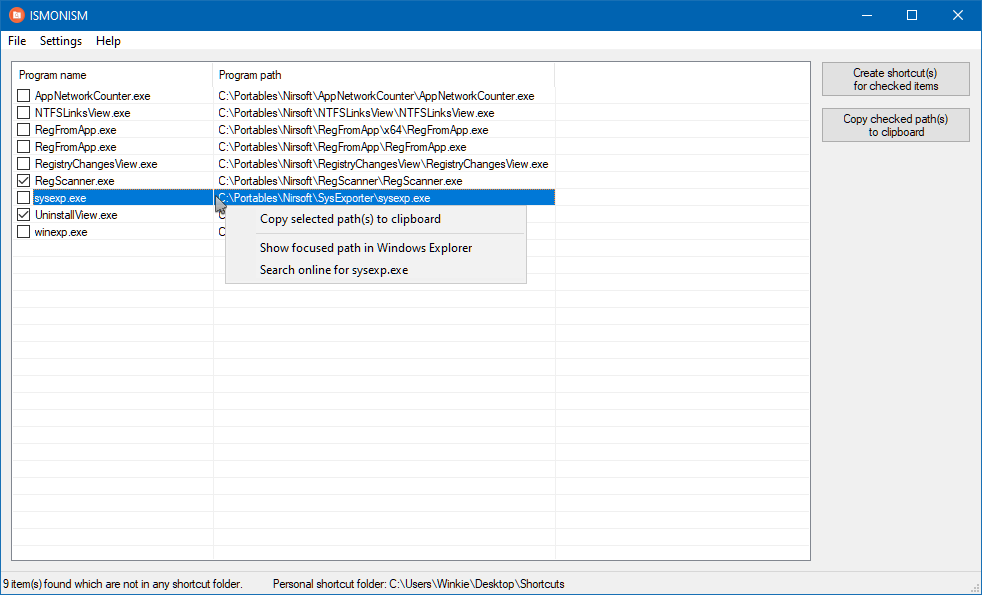
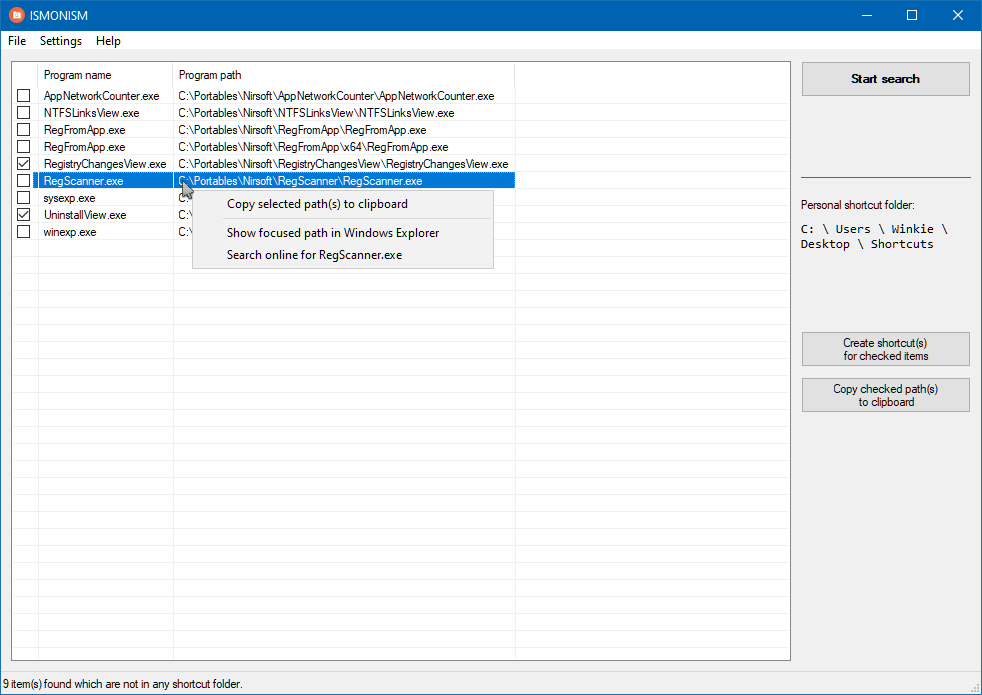
Add/change for v.0.4.0
[Change] Not start search automatically.
[Add] Button to start search,
[Add] Option to start search automatically
[Add] Option to start maximized.
[Add] Keyboard shortcuts.
[Change] Re-order GUIs and menu for the above.
[Bug fix] Partial file extension matches.
[Bug fix] Edit folders in settings GUI.
[Bug fix] Not always checking own folder for settings.

diff --git a/README.md b/README.md
@@ -20,6 +20,7 @@ The script is created with [AutoHotkey](https://www.autohotkey.com/download/) 1.
 In order to launch  `ISMONISM.ahk` from the root of this repository the following scripts are needed in a [Library](https://www.autohotkey.com/docs/Functions.htm#lib):
 - `JSON_ToObj.ahk` by Vxe from [here](https://github.com/Jim-VxE/AHK-Lib-JSON_ToObj).
 - `JSON_Beautify.ahk` by Joe DF from [here](https://github.com/joedf/JSON_BnU).
+- `AutoXYWH.ahk` by tmplinshi & toralf from [here](https://www.autohotkey.com/boards/viewtopic.php?f=6&t=1079).
 
 ## License and credits
 
@@ -34,6 +35,7 @@ This script/application uses the following components:
 - The icon/logo is copyrighted: (C) Iconic Hub, licensed free for commercial use. See the
 [Iconfinder.com file page](https://www.iconfinder.com/icons/1886938/files_folder_search_storage_icon).
 - `HasVal()` by [jNizM](https://github.com/jNizM) & [Lexicos](https://github.com/Lexikos), unlicensed open source code from [here](https://github.com/jNizM/AHK_Scripts/blob/master/src/arrays/HasVal.ahk). For more information see the corresponding [AutoHotkey.com Forum post](https://www.autohotkey.com/boards/viewtopic.php?p=110388#p110388).
+- `AutoXYWH()` by [tmplinshi](https://github.com/tmplinshi) & [toralf](https://github.com/Toralf-AHK), unlicensed open source code from from [here](https://www.autohotkey.com/boards/viewtopic.php?f=6&t=1079).
 - `BetterBox()` by wolf_II, unlicensed open source code from [here](https://www.autohotkey.com/boards/viewtopic.php?p=253712).
 
 ## See also
